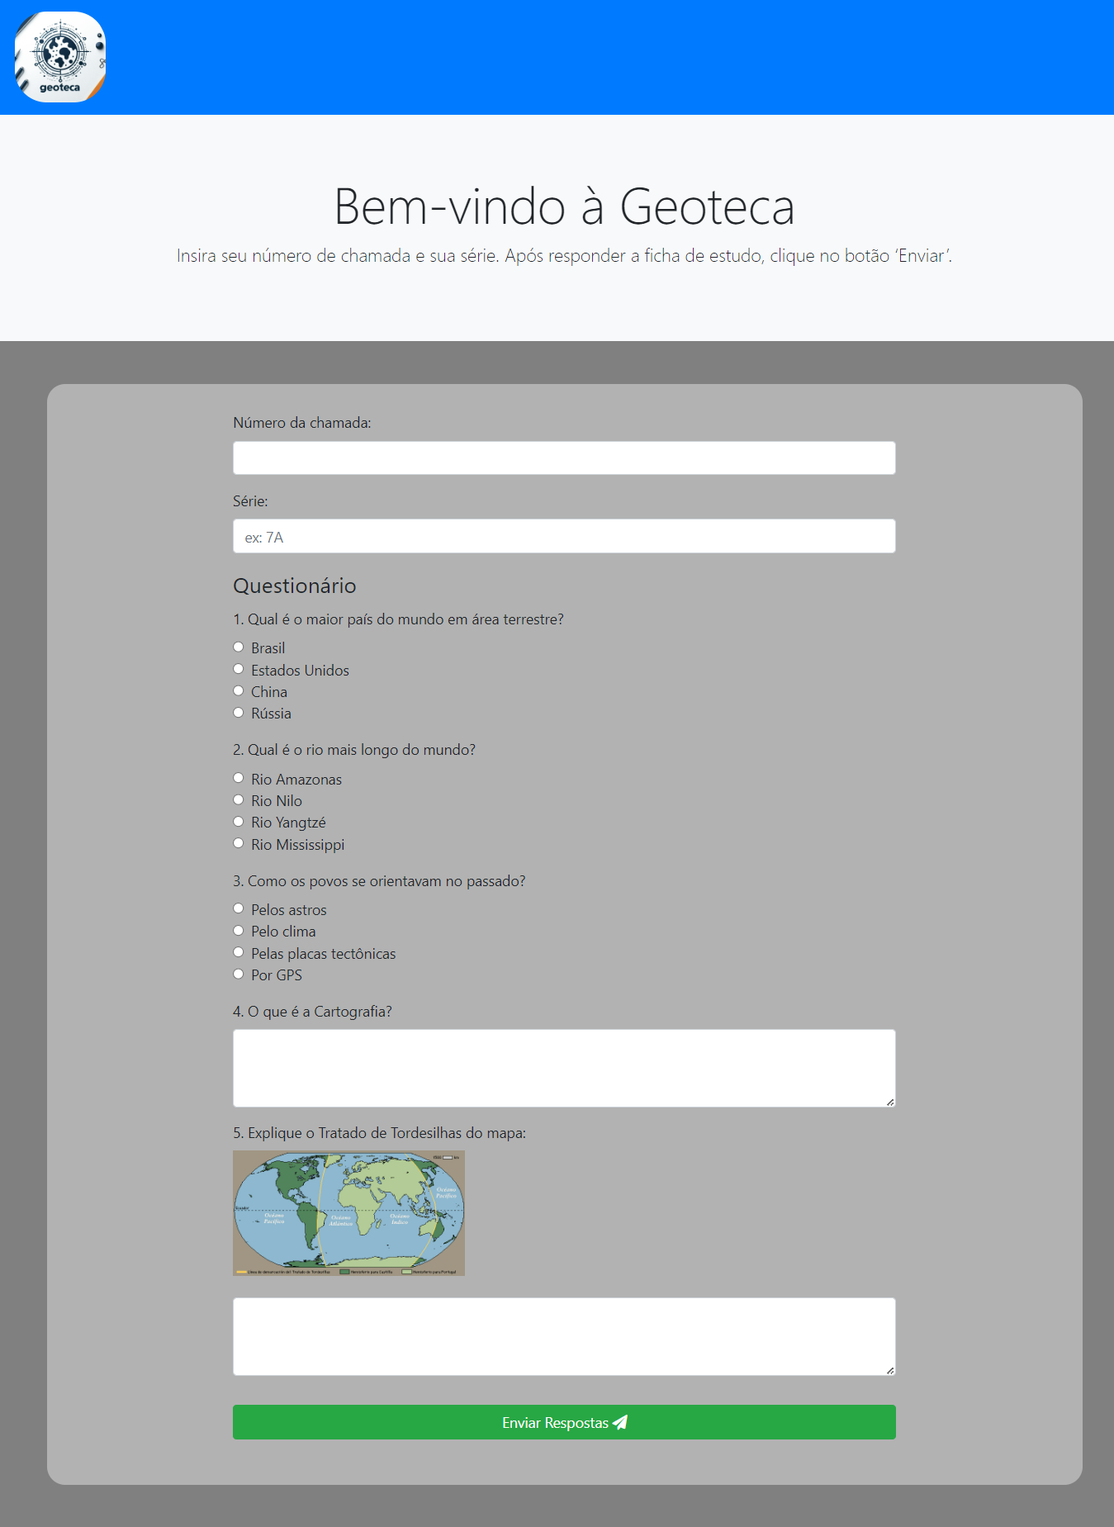
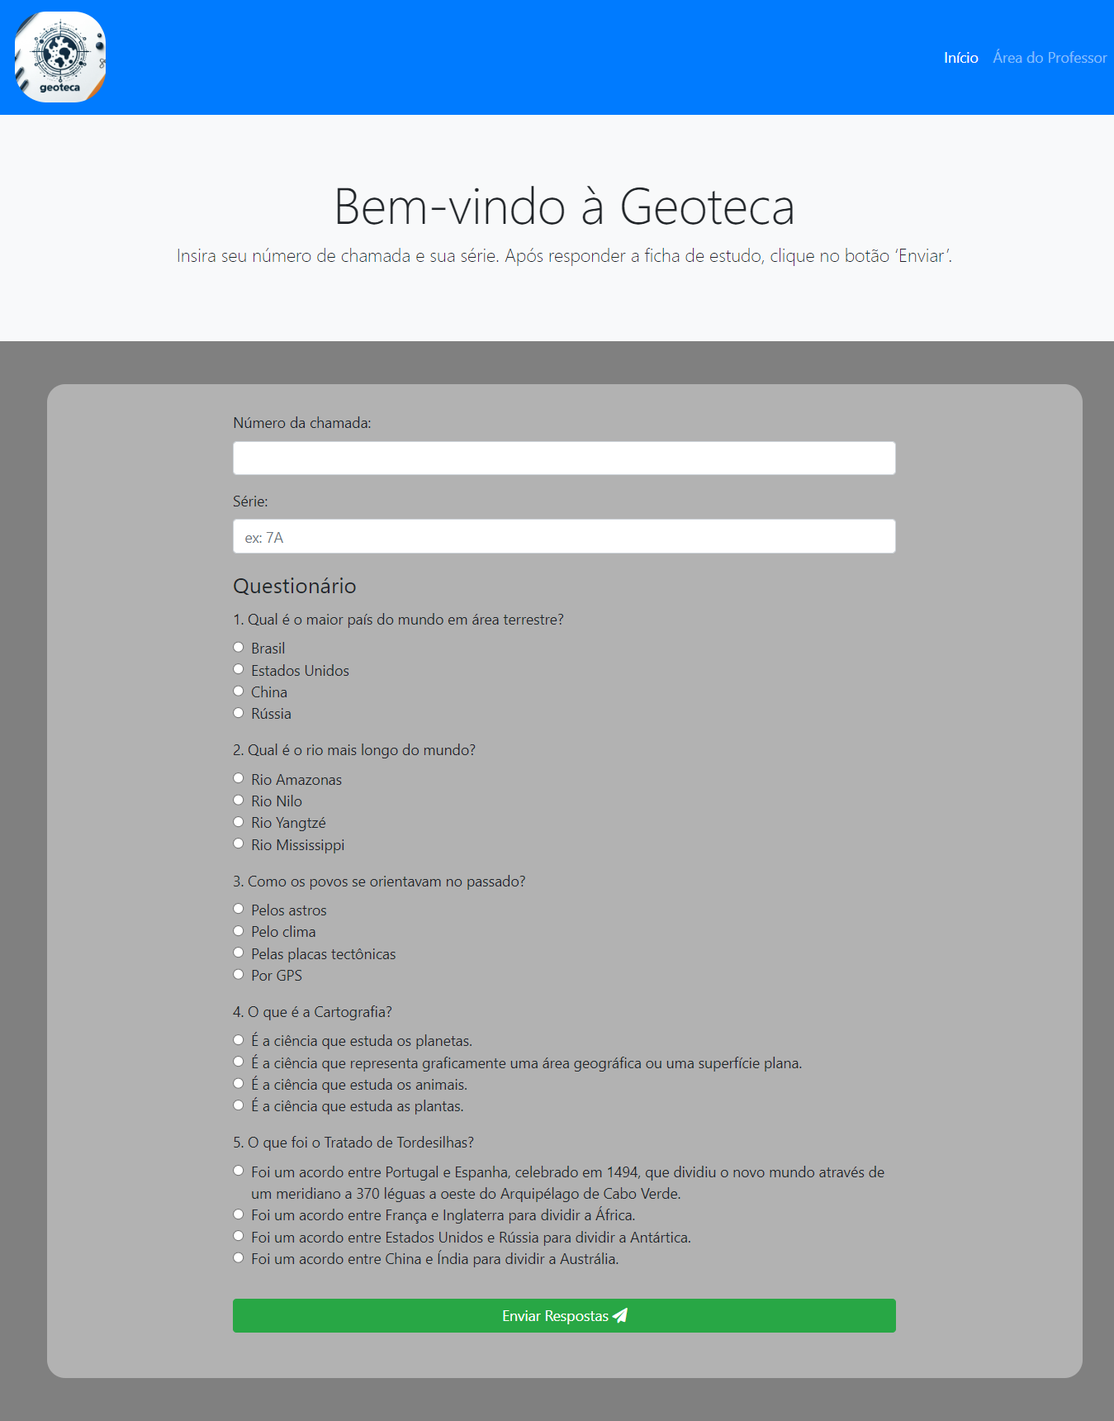
adicionado perguntas múltiplas escolhas

diff --git a/index.html b/index.html
@@ -1,5 +1,6 @@
 <!DOCTYPE html>
 <html lang="pt-BR">
+
 <head>
     <meta charset="UTF-8">
     <meta name="viewport" content="width=device-width, initial-scale=1.0">
@@ -8,14 +9,39 @@
     <link rel="stylesheet" href="https://stackpath.bootstrapcdn.com/bootstrap/4.3.1/css/bootstrap.min.css">
     <!-- Bootstrap Icons -->
     <link rel="stylesheet" href="https://cdnjs.cloudflare.com/ajax/libs/font-awesome/5.15.1/css/all.min.css">
-    <!-- CSS personalizado -->
-    <link rel="stylesheet" href="./css/estilo.css">
+    <!-- CSS Interno -->
+    <style>
+        body {
+            background-color: gray;
+        }
+
+        .img-logo {
+            border-radius: 35%;
+        }
+
+        div.container.mt-5 {
+            background-color: rgba(227, 227, 227, 0.5);
+            border-radius: 20px;
+            padding-bottom: 50px;
+            padding-top: 30px;
+            margin-bottom: 3rem !important;
+        }
+
+        @media (min-width: 992px) {
+            .navbar-expand-lg .navbar-collapse {
+                flex-direction: row-reverse;
+            }
+        }
+    </style>
 </head>
+
 <body>
     <!-- Navbar -->
     <nav class="navbar navbar-expand-lg navbar-dark bg-primary">
-        <a class="navbar-brand" href="index.html"><img src="./img/geoteca.jpg" alt="" width="100px" class="img-logo"></a>
-        <button class="navbar-toggler" type="button" data-toggle="collapse" data-target="#navbarNav" aria-controls="navbarNav" aria-expanded="false" aria-label="Toggle navigation">
+        <a class="navbar-brand" href="index.html"><img src="./img/geoteca.jpg" alt="" width="100px"
+                class="img-logo"></a>
+        <button class="navbar-toggler" type="button" data-toggle="collapse" data-target="#navbarNav"
+            aria-controls="navbarNav" aria-expanded="false" aria-label="Toggle navigation">
             <span class="navbar-toggler-icon"></span>
         </button>
         <div class="collapse navbar-collapse" id="navbarNav">
@@ -33,7 +59,8 @@
     <div class="jumbotron jumbotron-fluid text-center bg-light">
         <div class="container">
             <h1 class="display-4">Bem-vindo à Geoteca</h1>
-            <p class="lead">Insira seu número de chamada e sua série. Após responder a ficha de estudo, clique no botão ‘Enviar’.</p>
+            <p class="lead">Insira seu número de chamada e sua série. Após responder a ficha de estudo, clique no botão
+                ‘Enviar’.</p>
         </div>
     </div>
     <!-- Formulário -->
@@ -43,11 +70,13 @@
                 <form method="post" class="needs-validation" novalidate>
                     <div class="form-group">
                         <label for="numeroInput">Número da chamada:</label>
-                        <input type="text" class="form-control" id="numeroInput" name="numeroChamada" required pattern="^\d{1,3}$">
+                        <input type="text" class="form-control" id="numeroInput" name="numeroChamada" required
+                            pattern="^\d{1,3}$">
                     </div>
                     <div class="form-group">
                         <label for="serieInput">Série:</label>
-                        <input type="text" class="form-control" id="serieInput" name="serieEscola" placeholder="ex: 7A" required pattern="^\d{1,2}[A-Z]$">
+                        <input type="text" class="form-control" id="serieInput" name="serieEscola" placeholder="ex: 7A"
+                            required pattern="^\d{1,2}[A-Z]$">
                     </div>
                     <!-- Questionário -->
                     <div class="form-group">
@@ -57,19 +86,23 @@
                             <div class="form-group">
                                 <label for="input_1">1. Qual é o maior país do mundo em área terrestre?</label>
                                 <div class="form-check">
-                                    <input class="form-check-input" type="radio" name="alternativaP1" id="input_1A" value="Brasil" required>
+                                    <input class="form-check-input" type="radio" name="alternativaP1" id="input_1A"
+                                        value="1A" required>
                                     <label class="form-check-label" for="input_1A">Brasil</label>
                                 </div>
                                 <div class="form-check">
-                                    <input class="form-check-input" type="radio" name="alternativaP1" id="input_1B" value="Estados Unidos">
+                                    <input class="form-check-input" type="radio" name="alternativaP1" id="input_1B"
+                                        value="1B">
                                     <label class="form-check-label" for="input_1B">Estados Unidos</label>
                                 </div>
                                 <div class="form-check">
-                                    <input class="form-check-input" type="radio" name="alternativaP1" id="input_1C" value="China">
+                                    <input class="form-check-input" type="radio" name="alternativaP1" id="input_1C"
+                                        value="1C">
                                     <label class="form-check-label" for="input_1C">China</label>
                                 </div>
                                 <div class="form-check">
-                                    <input class="form-check-input" type="radio" name="alternativaP1" id="input_1D" value="Rússia">
+                                    <input class="form-check-input" type="radio" name="alternativaP1" id="input_1D"
+                                        value="1D">
                                     <label class="form-check-label" for="input_1D">Rússia</label>
                                 </div>
                             </div>
@@ -77,19 +110,23 @@
                             <div class="form-group">
                                 <label for="input_2">2. Qual é o rio mais longo do mundo?</label>
                                 <div class="form-check">
-                                    <input class="form-check-input" type="radio" name="alternativaP2" id="input_2A" value="Rio Amazonas" required>
+                                    <input class="form-check-input" type="radio" name="alternativaP2" id="input_2A"
+                                        value="2A" required>
                                     <label class="form-check-label" for="input_2A">Rio Amazonas</label>
                                 </div>
                                 <div class="form-check">
-                                    <input class="form-check-input" type="radio" name="alternativaP2" id="input_2B" value="Rio Nilo">
+                                    <input class="form-check-input" type="radio" name="alternativaP2" id="input_2B"
+                                        value="2B">
                                     <label class="form-check-label" for="input_2B">Rio Nilo</label>
                                 </div>
                                 <div class="form-check">
-                                    <input class="form-check-input" type="radio" name="alternativaP2" id="input_2C" value="Rio Yangtzé">
+                                    <input class="form-check-input" type="radio" name="alternativaP2" id="input_2C"
+                                        value="2C">
                                     <label class="form-check-label" for="input_2C">Rio Yangtzé</label>
                                 </div>
                                 <div class="form-check">
-                                    <input class="form-check-input" type="radio" name="alternativaP2" id="input_2D" value="Rio Mississippi">
+                                    <input class="form-check-input" type="radio" name="alternativaP2" id="input_2D"
+                                        value="2D">
                                     <label class="form-check-label" for="input_2D">Rio Mississippi</label>
                                 </div>
                             </div>
@@ -97,39 +134,87 @@
                             <div class="form-group">
                                 <label for="input_3">3. Como os povos se orientavam no passado?</label>
                                 <div class="form-check">
-                                    <input class="form-check-input" type="radio" name="alternativaP3" id="input_3A" value="Sydney" required>
+                                    <input class="form-check-input" type="radio" name="alternativaP3" id="input_3A"
+                                        value="3A" required>
                                     <label class="form-check-label" for="input_3A">Pelos astros</label>
                                 </div>
                                 <div class="form-check">
-                                    <input class="form-check-input" type="radio" name="alternativaP3" id="input_3B" value="Melbourne">
+                                    <input class="form-check-input" type="radio" name="alternativaP3" id="input_3B"
+                                        value="3B">
                                     <label class="form-check-label" for="input_3B">Pelo clima</label>
                                 </div>
                                 <div class="form-check">
-                                    <input class="form-check-input" type="radio" name="alternativaP3" id="input_3C" value="Perth">
+                                    <input class="form-check-input" type="radio" name="alternativaP3" id="input_3C"
+                                        value="3C">
                                     <label class="form-check-label" for="input_3C">Pelas placas tectônicas</label>
                                 </div>
                                 <div class="form-check">
-                                    <input class="form-check-input" type="radio" name="alternativaP3" id="input_3D" value="Canberra">
+                                    <input class="form-check-input" type="radio" name="alternativaP3" id="input_3D"
+                                        value="3D">
                                     <label class="form-check-label" for="input_3D">Por GPS</label>
                                 </div>
                             </div>
                             <!-- Pergunta 4 -->
                             <div class="form-group">
                                 <label for="input_4">4. O que é a Cartografia?</label>
-                                <textarea class="form-control" id="input_4" name="respostaP4" rows="3" required></textarea>
+                                <div class="form-check">
+                                    <input class="form-check-input" type="radio" name="alternativaP4" id="input_4A"
+                                        value="4A" required>
+                                    <label class="form-check-label" for="input_4A">É a ciência que estuda os
+                                        planetas.</label>
+                                </div>
+                                <div class="form-check">
+                                    <input class="form-check-input" type="radio" name="alternativaP4" id="input_4B"
+                                        value="4B">
+                                    <label class="form-check-label" for="input_4B">É a ciência que representa
+                                        graficamente uma área geográfica ou uma superfície plana.</label>
+                                </div>
+                                <div class="form-check">
+                                    <input class="form-check-input" type="radio" name="alternativaP4" id="input_4C"
+                                        value="4C">
+                                    <label class="form-check-label" for="input_4C">É a ciência que estuda os
+                                        animais.</label>
+                                </div>
+                                <div class="form-check">
+                                    <input class="form-check-input" type="radio" name="alternativaP4" id="input_4D"
+                                        value="4D">
+                                    <label class="form-check-label" for="input_4D">É a ciência que estuda as
+                                        plantas.</label>
+                                </div>
                             </div>
                             <!-- Pergunta 5 -->
                             <div class="form-group">
-                                <label for="input_5">5. Explique o Tratado de Tordesilhas do mapa:</label>
-                                <br>
-                                <img src="./img/mapa.jpg" alt="" width="35%">
-                                <br>
-                                <br>
-                                <textarea class="form-control" id="input_5" name="respostaP5" rows="3" required></textarea>
+                                <label for="input_5">5. O que foi o Tratado de Tordesilhas?</label>
+                                <div class="form-check">
+                                    <input class="form-check-input" type="radio" name="alternativaP5" id="input_5A"
+                                        value="5A" required>
+                                    <label class="form-check-label" for="input_5A">Foi um acordo entre Portugal e
+                                        Espanha, celebrado em 1494, que dividiu o novo mundo através de um meridiano a
+                                        370 léguas a oeste do Arquipélago de Cabo Verde.</label>
+                                </div>
+                                <div class="form-check">
+                                    <input class="form-check-input" type="radio" name="alternativaP5" id="input_5B"
+                                        value="5B">
+                                    <label class="form-check-label" for="input_5B">Foi um acordo entre França e
+                                        Inglaterra para dividir a África.</label>
+                                </div>
+                                <div class="form-check">
+                                    <input class="form-check-input" type="radio" name="alternativaP5" id="input_5C"
+                                        value="5C">
+                                    <label class="form-check-label" for="input_5C">Foi um acordo entre Estados Unidos e
+                                        Rússia para dividir a Antártica.</label>
+                                </div>
+                                <div class="form-check">
+                                    <input class="form-check-input" type="radio" name="alternativaP5" id="input_5D"
+                                        value="5D">
+                                    <label class="form-check-label" for="input_5D">Foi um acordo entre China e Índia
+                                        para dividir a Austrália.</label>
+                                </div>
                             </div>
-                        </fieldset>                        
+                        </fieldset>
                     </div>
-                    <button type="submit" class="btn btn-success btn-block">Enviar Respostas <i class="fas fa-paper-plane"></i></button>
+                    <button type="submit" class="btn btn-success btn-block">Enviar Respostas <i
+                            class="fas fa-paper-plane"></i></button>
                 </form>
             </div>
         </div>
@@ -139,6 +224,7 @@
     <script src="https://cdnjs.cloudflare.com/ajax/libs/popper.js/1.14.7/umd/popper.min.js"></script>
     <script src="https://stackpath.bootstrapcdn.com/bootstrap/4.3.1/js/bootstrap.min.js"></script>
     <!-- Script de validação antes de enviar o questionario -->
-    <script src="./js/script.js" ></script>
+    <script src="./js/script.js"></script>
 </body>
+
 </html>

diff --git a/pages/gabarito.html b/pages/gabarito.html
@@ -1,5 +1,6 @@
 <!DOCTYPE html>
 <html lang="pt-BR">
+
 <head>
     <meta charset="UTF-8">
     <meta name="viewport" content="width=device-width, initial-scale=1.0">
@@ -9,6 +10,7 @@
     <!-- Bootstrap Icons -->
     <link rel="stylesheet" href="https://cdnjs.cloudflare.com/ajax/libs/font-awesome/5.15.1/css/all.min.css">
 </head>
+
 <body style="background-color: rgba(227, 227, 227, 0.5);">
     <!-- Jumbotron -->
     <div class="jumbotron jumbotron-fluid text-center p-3 mb-2 bg-primary text-white">
@@ -29,41 +31,51 @@
                             <div class="form-group">
                                 <label for="input_1">1. Qual é o maior país do mundo em área terrestre?</label>
                                 <div class="form-check">
-                                    <input class="form-check-input" type="radio" name="alternativaP1" id="input_1D" value="Rússia" checked>
-                                    <label class="form-check-label" for="input_1D">Rússia</label>
+                                    <input class="form-check-input" type="radio" name="alternativaP1" id="input_1D" checked>
+                                    <label class="form-check-label text-success" for="input_1D">Rússia</label>
                                 </div>
                             </div>
+                            <br>
                             <!-- Pergunta 2 -->
                             <div class="form-group">
                                 <label for="input_2">2. Qual é o rio mais longo do mundo?</label>
                                 <div class="form-check">
-                                    <input class="form-check-input" type="radio" name="alternativaP2" id="input_2B" value="Rio Nilo" checked>
-                                    <label class="form-check-label" for="input_2B">Rio Nilo</label>
+                                    <input class="form-check-input" type="radio" name="alternativaP2" id="input_2B" checked>
+                                    <label class="form-check-label text-success" for="input_2B">Rio Nilo</label>
                                 </div>
                             </div>
+                            <br>
                             <!-- Pergunta 3 -->
                             <div class="form-group">
                                 <label for="input_3">3. Como os povos se orientavam no passado?</label>
                                 <div class="form-check">
-                                    <input class="form-check-input" type="radio" name="alternativaP3" id="input_3A" value="Pelos astros" checked>
-                                    <label class="form-check-label" for="input_3A">Pelos astros</label>
+                                    <input class="form-check-input" type="radio" name="alternativaP3" id="input_3A" checked>
+                                    <label class="form-check-label text-success" for="input_3A">Pelos astros</label>
                                 </div>
                             </div>
+                            <br>
                             <!-- Pergunta 4 -->
                             <div class="form-group">
                                 <label for="input_4">4. O que é a Cartografia?</label>
-                                <textarea class="form-control" id="input_4" name="respostaP4" rows="3" required>A Cartografia é a ciência de representação gráfica da superfície terrestre, incluindo aspectos físicos, culturais e artificiais.</textarea>
+                                <div class="form-check">
+                                    <input class="form-check-input" type="radio" name="alternativaP4" id="input_4B" checked>
+                                    <label class="form-check-label text-success" for="input_4B">É a ciência que representa
+                                        graficamente uma área geográfica ou uma superfície plana.</label>
+                                </div>
                             </div>
+                            <br>
                             <!-- Pergunta 5 -->
                             <div class="form-group">
-                                <label for="input_5">5. Explique o Tratado de Tordesilhas do mapa:</label>
-                                <br>
-                                <img src="../img/mapa.jpg" alt="" width="35%">
-                                <br>
-                                <br>
-                                <textarea class="form-control" id="input_5" name="respostaP5" rows="3" required>O Tratado de Tordesilhas foi um acordo entre Portugal e Espanha, mediado pelo Papa, que dividiu as terras do "Novo Mundo" entre eles. A linha de demarcação passava a 370 léguas a oeste das ilhas de Cabo Verde. As terras a leste pertenceriam a Portugal e as terras a oeste à Espanha.</textarea>
+                                <label for="input_5">5. O que foi o Tratado de Tordesilhas?</label>
+                                <div class="form-check">
+                                    <input class="form-check-input" type="radio" name="alternativaP5" id="input_5A" checked>
+                                    <label class="form-check-label text-success" for="input_5A">Foi um acordo entre Portugal e
+                                        Espanha, celebrado em 1494, que dividiu o novo mundo através de um meridiano a
+                                        370 léguas a oeste do Arquipélago de Cabo Verde.</label>
+                                </div>
                             </div>
-                        </fieldset>                        
+                            <br>
+                        </fieldset>
                     </div>
                 </form>
                 <!-- Botão Voltar -->
@@ -78,4 +90,5 @@
     <script src="https://cdnjs.cloudflare.com/ajax/libs/popper.js/1.14.7/umd/popper.min.js"></script>
     <script src="https://stackpath.bootstrapcdn.com/bootstrap/4.3.1/js/bootstrap.min.js"></script>
 </body>
+
 </html>

diff --git a/pages/areaProfessor.html b/pages/areaProfessor.html
@@ -1,5 +1,6 @@
 <!DOCTYPE html>
 <html lang="pt-BR">
+
 <head>
     <meta charset="UTF-8">
     <meta name="viewport" content="width=device-width, initial-scale=1.0">
@@ -8,14 +9,22 @@
     <link rel="stylesheet" href="https://stackpath.bootstrapcdn.com/bootstrap/4.3.1/css/bootstrap.min.css">
     <!-- Bootstrap Icons -->
     <link rel="stylesheet" href="https://cdnjs.cloudflare.com/ajax/libs/font-awesome/5.15.1/css/all.min.css">
-    <!-- CSS personalizado -->
-    <link rel="stylesheet" href="./css/estilo.css">
+    <!-- CSS Interno -->
+    <style>
+        @media (min-width: 992px) {
+            .navbar-expand-lg .navbar-collapse {
+                flex-direction: row-reverse;
+            }
+        }
+    </style>
 </head>
+
 <body>
     <!-- Navbar -->
     <nav class="navbar navbar-expand-lg navbar-dark bg-primary">
         <a class="navbar-brand" href="#"><img src="./img/geoteca.jpg" alt="" width="100px" class="img-logo"></a>
-        <button class="navbar-toggler" type="button" data-toggle="collapse" data-target="#navbarNav" aria-controls="navbarNav" aria-expanded="false" aria-label="Toggle navigation">
+        <button class="navbar-toggler" type="button" data-toggle="collapse" data-target="#navbarNav"
+            aria-controls="navbarNav" aria-expanded="false" aria-label="Toggle navigation">
             <span class="navbar-toggler-icon"></span>
         </button>
         <div class="collapse navbar-collapse" id="navbarNav">
@@ -62,4 +71,5 @@
     <script src="https://cdnjs.cloudflare.com/ajax/libs/popper.js/1.14.7/umd/popper.min.js"></script>
     <script src="https://stackpath.bootstrapcdn.com/bootstrap/4.3.1/js/bootstrap.min.js"></script>
 </body>
+
 </html>
